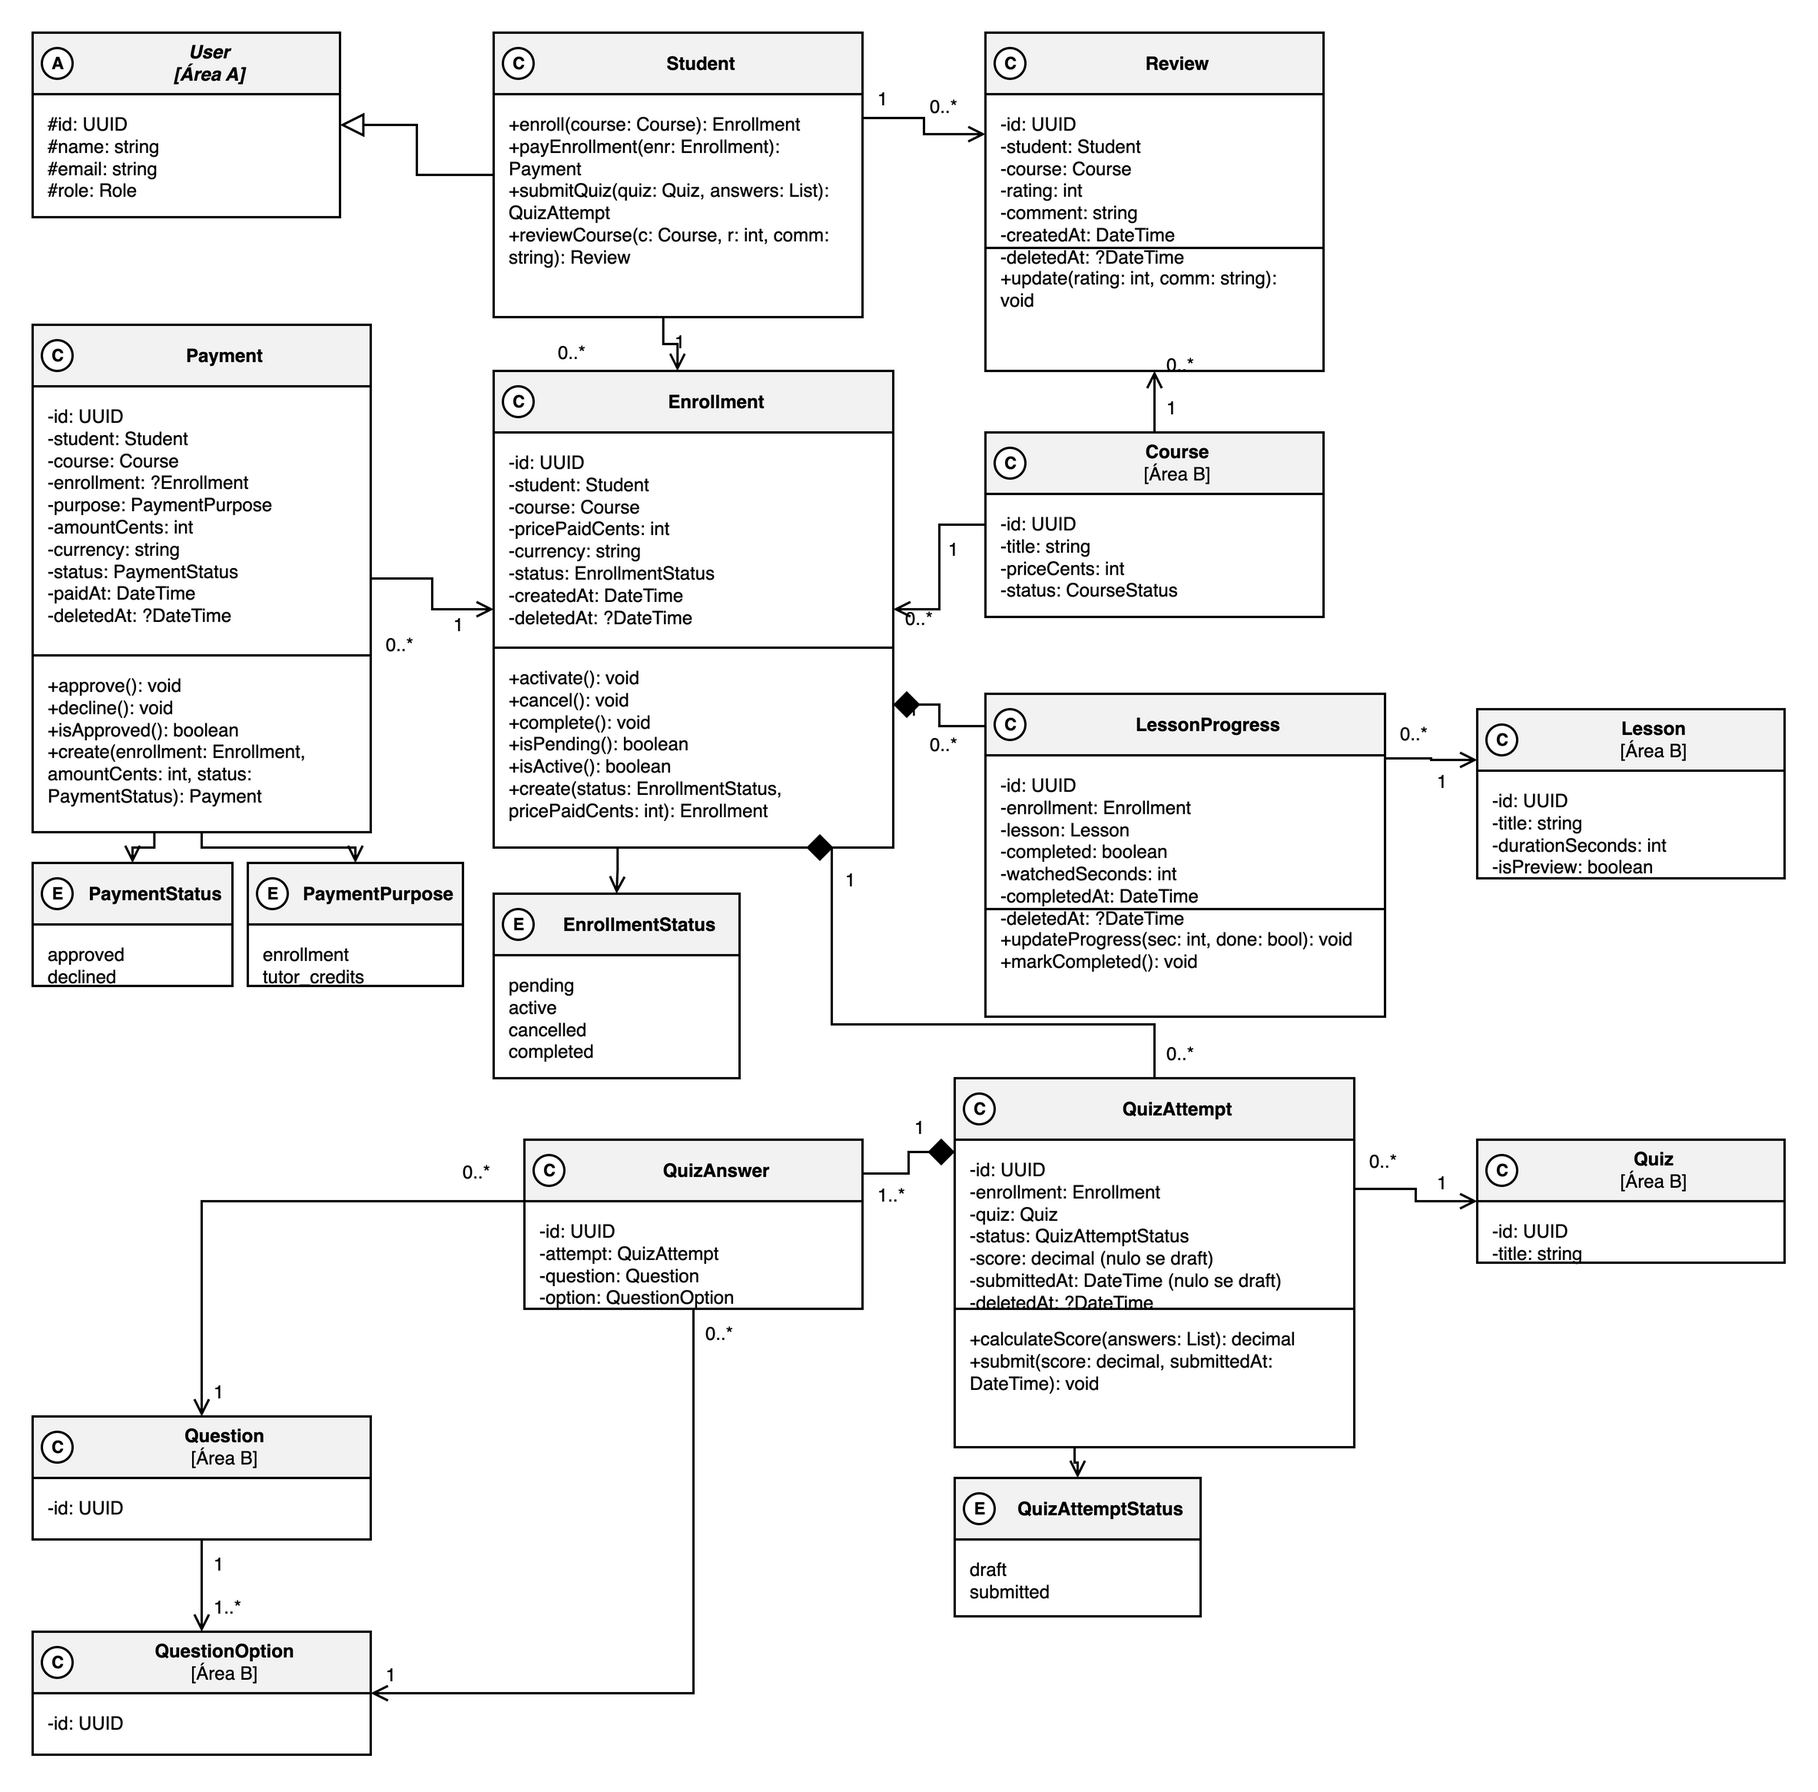
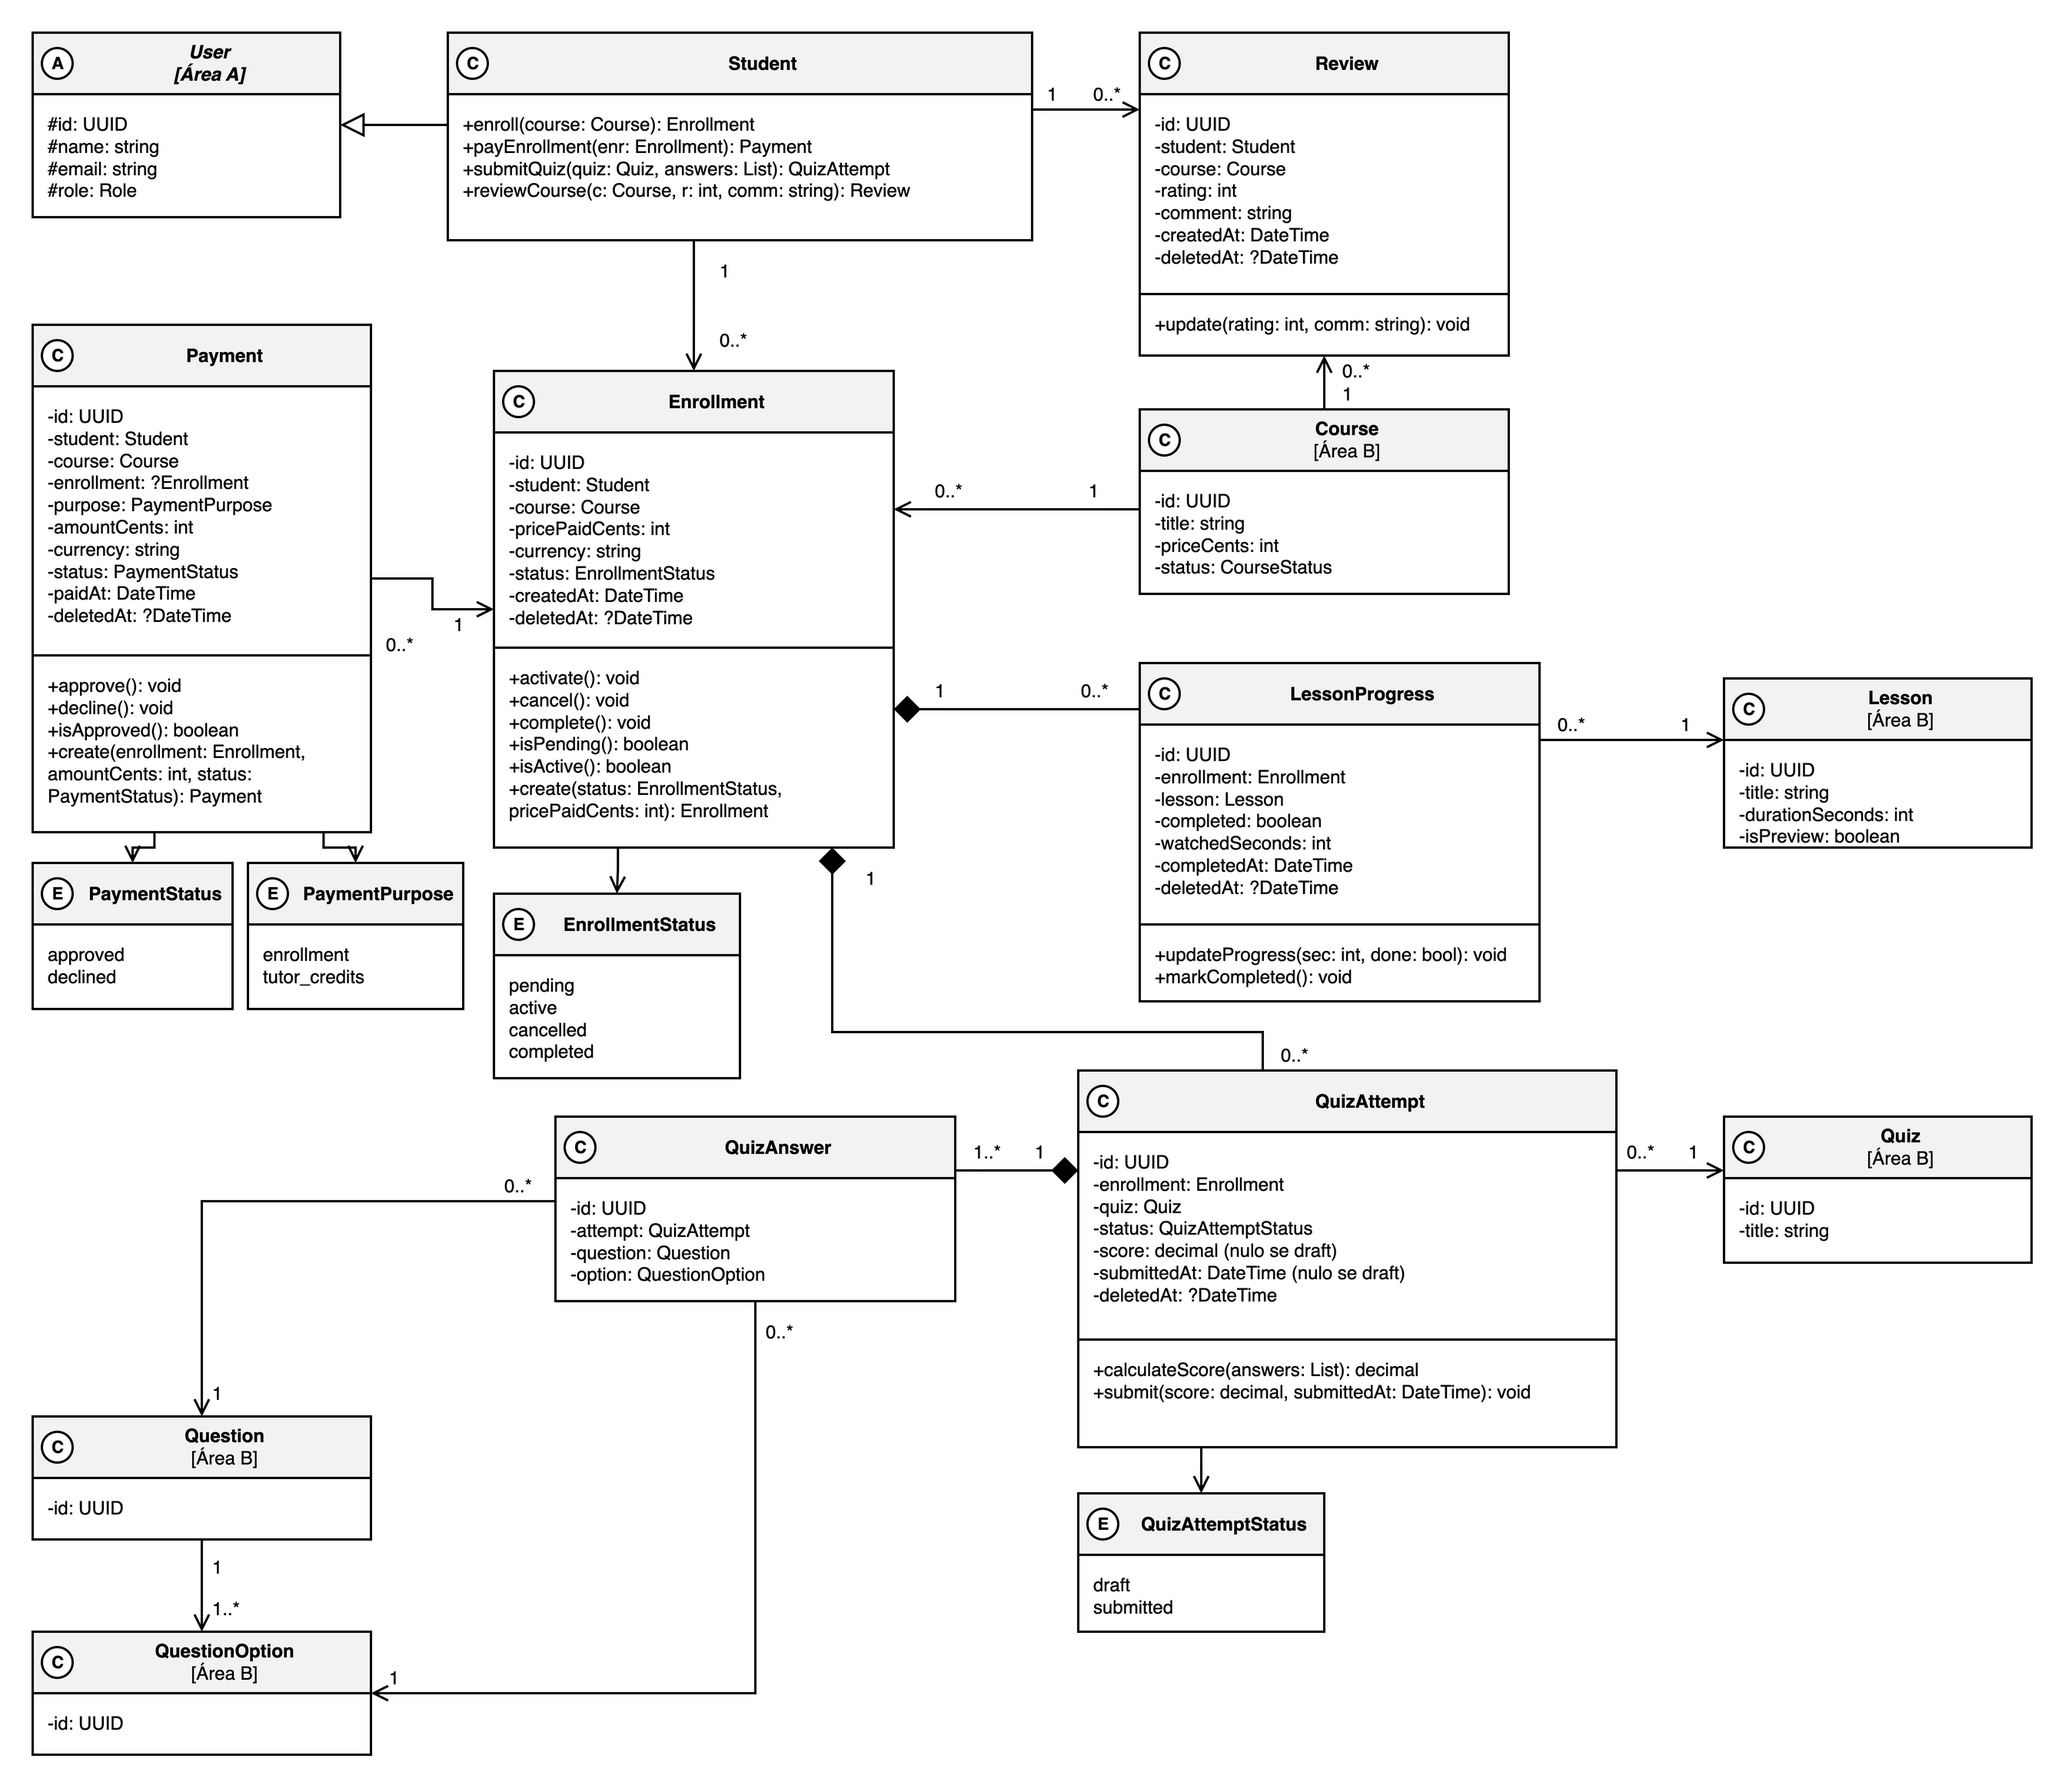
docs(area-c): refine class diagram layouts, compartments, and associations in item 13
Separate parallel dashed dependency routes from CatalogController into
distinct visual lanes in the enrollment implementation diagram. In the
business domain class diagram, align attributes strictly above method
separators in Review, LessonProgress, and QuizAttempt, adjust compartment
heights to eliminate text clipping in PaymentStatus, PaymentPurpose, and
Quiz, widen Student to avoid method text wrapping, straighten association
lines between Student, Course, Enrollment, and LessonProgress, and move
multiplicity labels away from arrowheads and diamonds.

(cherry picked from commit f5dfddbb6186b2508a4b220515d4313d5fa8a47b)

diff --git a/CHANGELOG.md b/CHANGELOG.md
@@ -52,7 +52,7 @@ Registro do caminho do documento de especificação da Plataforma de Cursos até
 - Item 6 (Requisitos funcionais): RF004 atualizado para incluir o gerenciamento e upload de material complementar da aula pela API (decisão B4) (#TBD).
 - Item 15: casos de teste da Área C (`especificacao/15-casos-de-teste/area-c.md`) atualizados com código 403 em TC160 (C3), botão «Matricule-se» em TC152 e TC154 (C8), restauração de `instructorId` em TC055 e `categoryId` em TC056 (C9), validação de `perPage` (1 a 100 com 422) em TC177 (D-TC245), campos em camelCase e regras R-4 e R-5, e remoção de `pendencias-area-c.md` após absorção integral (#TBD).
 - Item 14: diagramas de sequência da Área C atualizados com resposta HTTP 403 FORBIDDEN no UC009 E1 para acesso bloqueado sem matrícula e sem prévia (decisão C3) e convenção camelCase com parâmetro perPage no UC020 (ADR-0015, D-TC245) (#TBD).
-- Item 13: diagramas de classes da Área C refeitos com layout em 5 colunas (Controller > Service > Repository > Entity), cores por papel com legenda (#DAE8FC, #D5E8D4, #FFE6CC, #E1D5E7, #FFF2CC, #F5F5F5), finalidade PaymentPurpose e deletedAt nas entidades (ADR-0014, D-cota-extra) e largura corrigida sem truncamento de texto (#TBD).
+- Item 13: diagramas de classes da Área C refinados com layout ortogonal em 5 colunas, rotas tracejadas do CatalogController separadas em faixas visíveis no diagrama de matrícula, atributos estritamente acima do separador de métodos em Review, LessonProgress e QuizAttempt, caixas alargadas sem quebra indevida de métodos (Student) e alturas ajustadas sem cortes (PaymentStatus, PaymentPurpose, Quiz), com ligações retas e multiplicidades afastadas das pontas (#TBD).
 - Item 12: modelo lógico relacional da Área C refinado em draw.io com roteamento externo de payments para users eliminando cruzamentos de linha, e rótulos de multiplicidade 1 afastados das pontas e bordas de lessons, quizzes, questions e question_options (#TBD).
 - Item 10: especificação dos casos de uso da Área C atualizada com as regras R-4 no UC002 (ocultação do gabarito antes do envio), R-4 e R-5 no UC009 (desacoplamento de quiz e liberação por conclusão de aulas) e rótulo «Matricule-se» para matrícula pendente no UC003 e UC019 (#TBD).
 - Tags e Releases `v1.0.0`, `v1.1.0` e `v1.2.0`, links de comparação e o passo a passo de fechar versão, para ligar cada envio ao professor ao commit que o gerou (#140).
